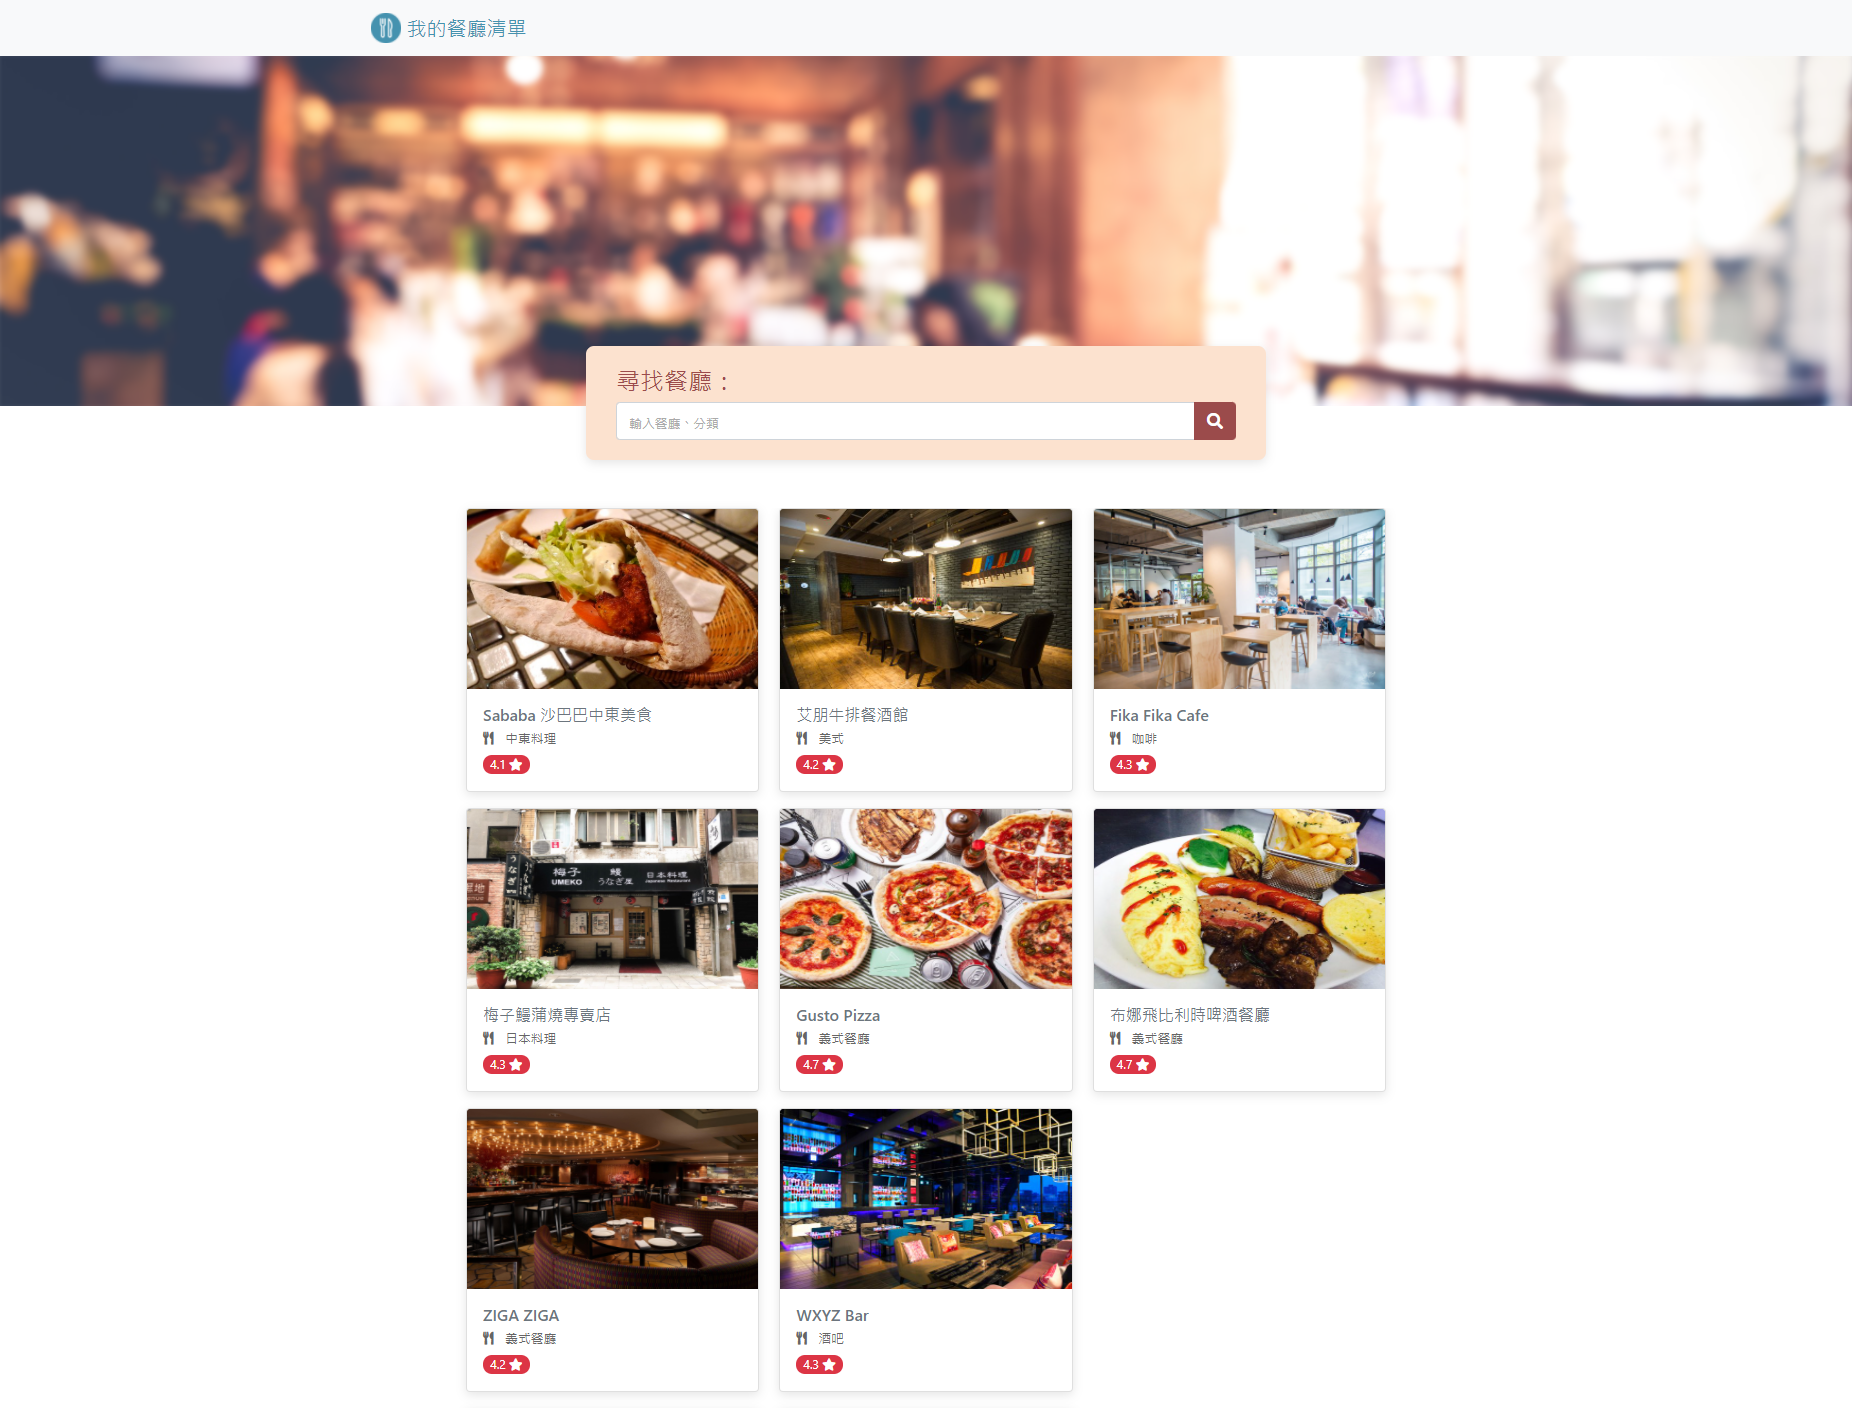
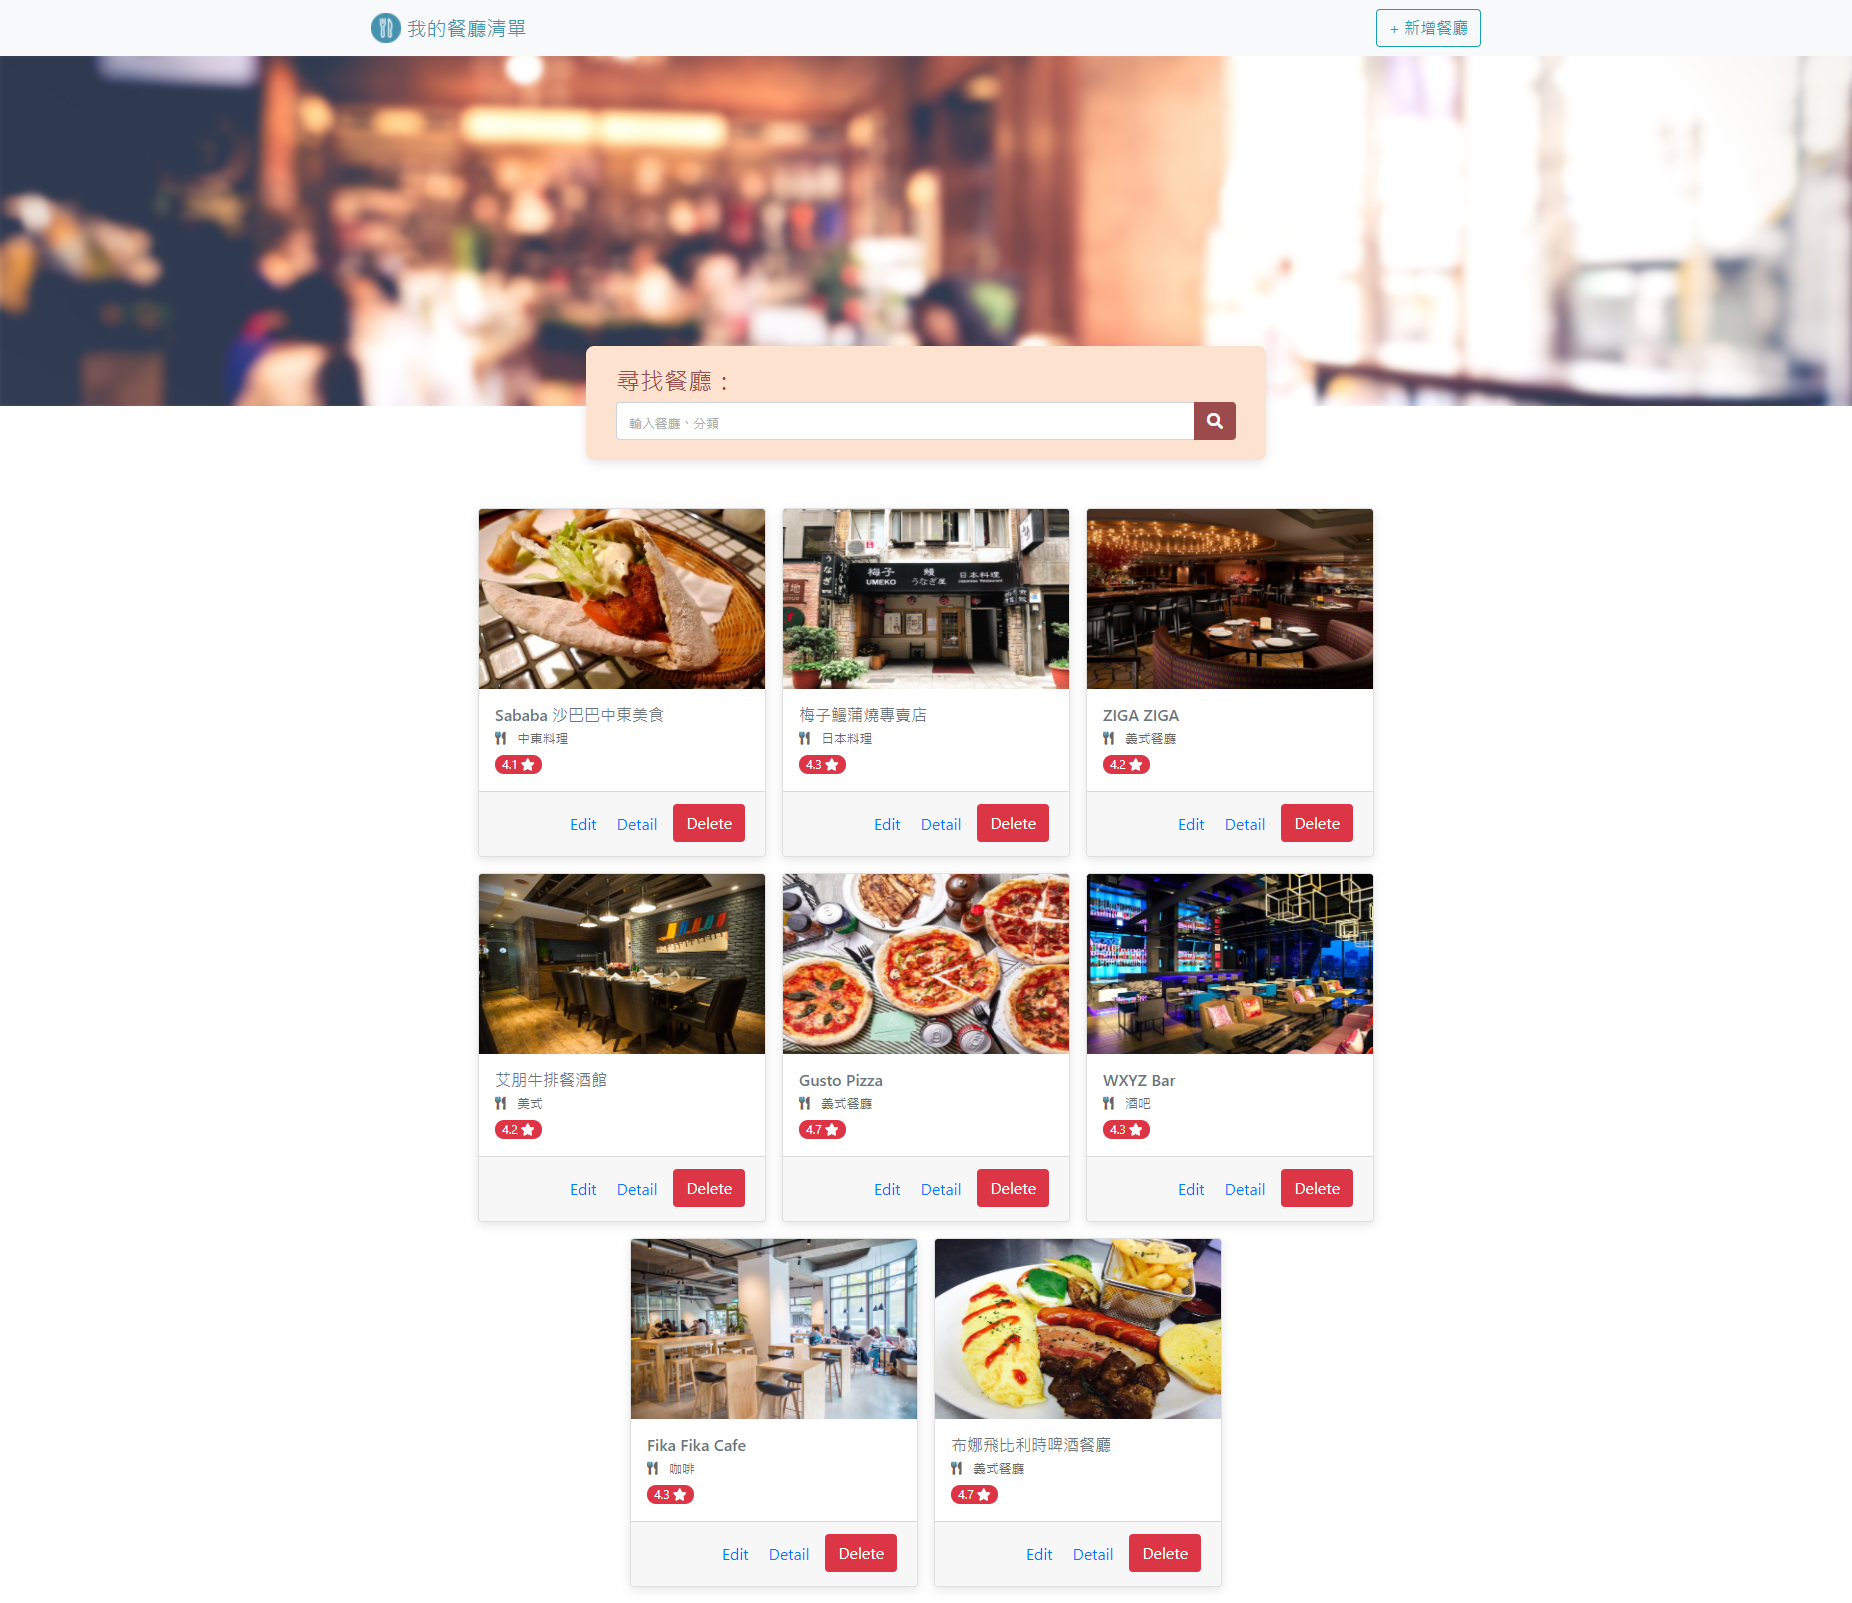
docs: update to 2.0

diff --git a/README.md b/README.md
@@ -2,7 +2,7 @@
 <div id="top"></div>
 <p>
   <a href="https://github.com/Prysline/S2A1_restaurant" target="_blank">
-  <img alt="Version" src="https://img.shields.io/badge/version-1.0.0-blue.svg?cacheSeconds=2592000" />
+  <img alt="Version" src="https://img.shields.io/badge/version-2.0.0-blue.svg?cacheSeconds=2592000" />
   </a>
   <a href="https://github.com/Prysline/S2A1_restaurant/blob/main/LICENSE" target="_blank">
     <img alt="License: MIT" src="https://img.shields.io/github/license/Prysline/S2A1_restaurant.svg" />
@@ -48,10 +48,17 @@
 - 卡片式餐廳清單
 - 能用餐廳中英文名稱或是餐廳類型查找
 - 點擊餐廳圖片可瀏覽詳細資訊
+- 新增餐廳資訊
+- 修改餐廳資訊
+- 刪除餐廳資訊
 
 ### 截圖 Screenshot
-
-![index](https://github.com/Prysline/S2A1_restaurant/blob/main/public/images/index.png) ![info](https://github.com/Prysline/S2A1_restaurant/blob/main/public/images/info.png)
+<div>
+  <img alt="index" src="https://github.com/Prysline/S2A1_restaurant/blob/main/public/images/index.png" style="display: inline-box; width: 12em;">
+  <img alt="info" src="https://github.com/Prysline/S2A1_restaurant/blob/main/public/images/info.png" style="display: inline-box; width: 12em;">
+  <img alt="new" src="https://github.com/Prysline/S2A1_restaurant/blob/main/public/images/new.png" style="display: inline-box; width: 12em;">
+  <img alt="edit" src="https://github.com/Prysline/S2A1_restaurant/blob/main/public/images/edit.png" style="display: inline-box; width: 12em;">
+</div>
 
 <p align="right">(<a href="#top">back to top</a>)</p>
 
@@ -61,6 +68,9 @@
 - [Express](https://expressjs.com/)
 - [Express-handlebars](https://github.com/express-handlebars/express-handlebars)
 - [nodemon](https://www.npmjs.com/package/nodemon)
+- [mongoDB](https://www.mongodb.com/) (v4.2.17)
+- [mongoose](https://mongoosejs.com/)
+- [Robo 3T](https://robomongo.org/)
 
 <p align="right">(<a href="#top">back to top</a>)</p>
 
@@ -76,6 +86,8 @@
   npm install -g nodemon
   ```
 
+所有新增、編輯、移除等關於資料庫的功能，均建立在使用 [mongoDB](https://www.mongodb.com/) + [mongoose](https://mongoosejs.com/) 的環境下。
+
 ### 安裝 Installation
 
 1. 在要安裝的位置開啟終端機(terminal) clone 專案檔案
@@ -90,7 +102,11 @@
    ```sh
    npm install
    ```
-4. 使用 Node.js 執行 Express 伺服器（更新檔案時需要另外 ctrl+C 退出 Node.js 環境並重新啟動）
+4. 建立種子資料 （須連線 mongoDB 伺服器）
+   ```sh
+   npm run seed
+   ```
+5. 使用 Node.js 執行 Express 伺服器（更新檔案時需要另外 ctrl+C 退出 Node.js 環境並重新啟動）
    ```sh
    npm run start
    ```
@@ -98,7 +114,7 @@
    ```sh
    npm run dev
    ```
-5. 在瀏覽器網址列輸入 `http://localhost:3000/` 瀏覽網站
+6. 在瀏覽器網址列輸入 `http://localhost:3000/` 瀏覽網站
 
 <p align="right">(<a href="#top">back to top</a>)</p>
 
